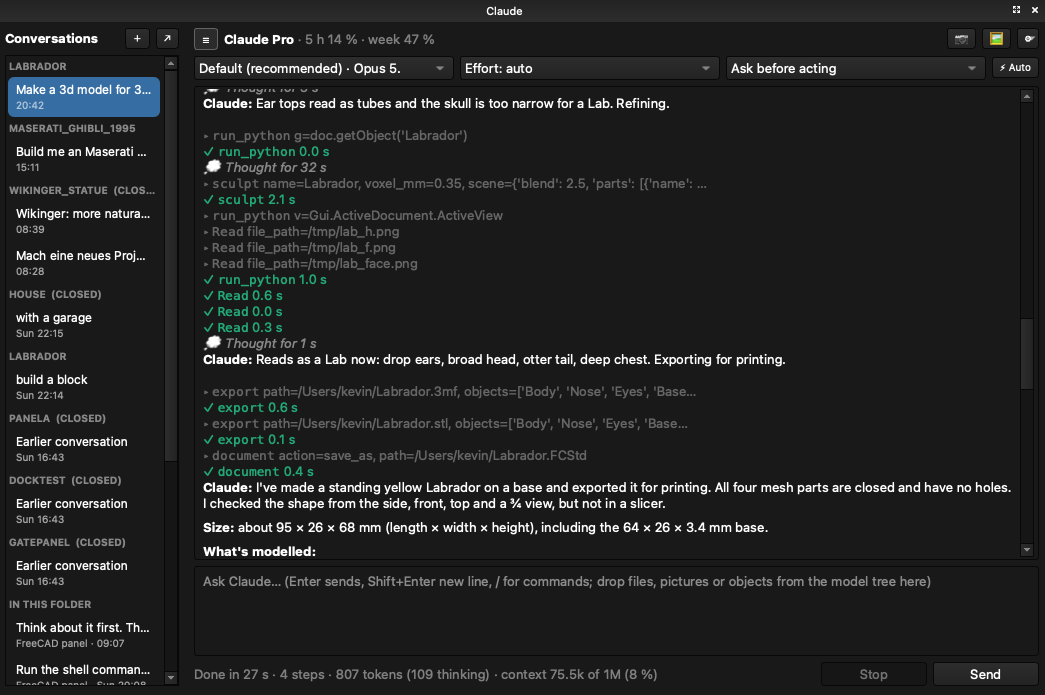
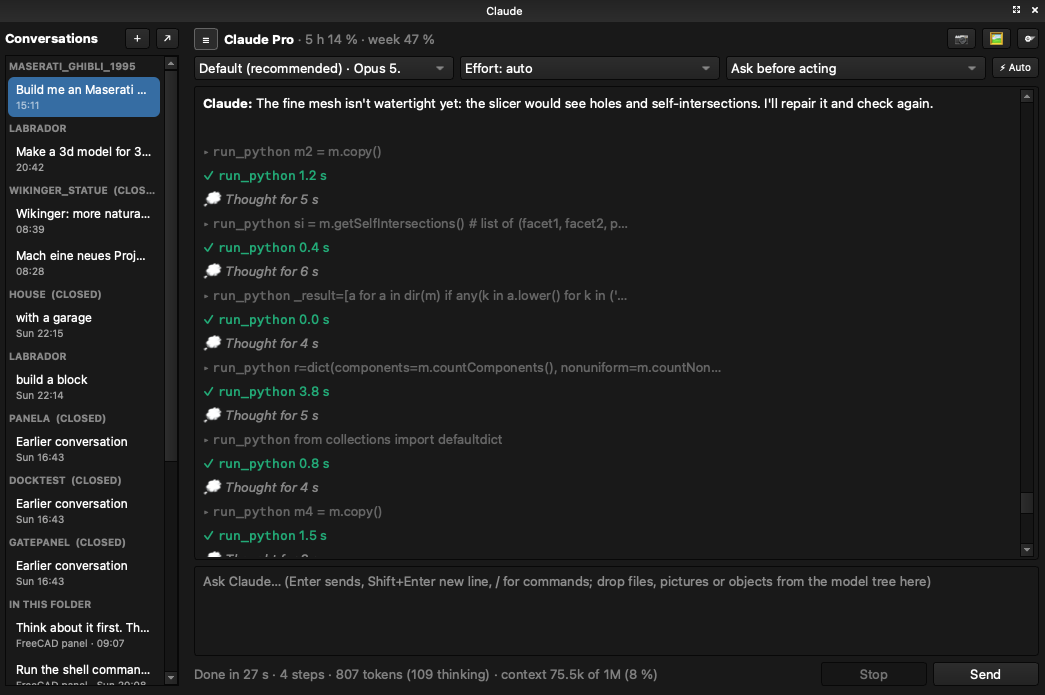
README: drop the Labrador screenshot; Maserati as the main image

Changed region(s): [[0.1837, 0.1209, 0.9799, 0.8158], [0.0, 0.1813, 0.1531, 0.2417], [0.0, 0.0906, 0.1531, 0.1511]]

diff --git a/README.md b/README.md
@@ -2,9 +2,9 @@
 
 Control FreeCAD by chat with Claude, either in a **"Claude" chat panel inside FreeCAD** or from **Claude Code**. Claude works on your open document through FreeCAD's Python API: it creates and changes geometry, reads the model tree and properties, and exports files. Every Claude step is exactly one undo step, and failed code leaves nothing behind.
 
-![FreeCAD with the Claude panel: a Labrador sculpted by Claude for 3D printing, with the conversation that built it](docs/images/freecad-labrador.png)
+![FreeCAD with the Claude panel: a Maserati Ghibli (1995) built from a photo for 3D printing](docs/images/freecad-maserati.png)
 
-*"Make a 3D model of a Labrador for printing": Claude sculpted it with the `sculpt` tool, looked at it from four sides, refined ears and skull, and exported 3MF and STL. Real screenshot of FreeCAD 1.1 on macOS.*
+*A Maserati Ghibli (1995) built from the user's photo for printing; here Claude checks the print mesh and repairs it until it is watertight. Real screenshot of FreeCAD 1.1 on macOS.*
 
 > Status: 1.12.0, not yet tagged. Tested by hand on macOS; Linux (AppImage) and Windows (portable build) are tested in CI against FreeCAD 1.1.4, including the GUI on Linux. The release is tagged after the [manual acceptance](docs/manual-testing.md) on Windows 11 and Ubuntu. See [CHANGELOG.md](CHANGELOG.md).
 
@@ -60,9 +60,7 @@ Check everything with `/freecad:status`.
 
 ![The Claude panel: conversations per project, model and effort, plan usage, tool rows and the turn summary with real token counts](docs/images/panel.png)
 
-![A Maserati Ghibli (1995) built from a photo for printing; Claude repairs the mesh until it is watertight](docs/images/freecad-maserati.png)
-
-*Top: the chat panel with conversations grouped by project, model, effort and permission mode, plan usage, every tool call and the turn summary. Below: a Maserati Ghibli (1995) built from the user's photo; here Claude checks the print mesh and repairs it until it is watertight.*
+*The chat panel: conversations grouped by project, model, effort and permission mode, plan usage, every tool call with its time, and the turn summary.*
 
 - **In FreeCAD:** type into the Claude panel, e.g. "Make a 40×30×10 mm block with a 10 mm hole in the middle and export it as STEP to ~/Desktop/block.step". The active document and your current selection are sent along, so "make this face 2 mm thicker" works. Tool calls show up as rows, followed by a summary of created/changed objects and any errors; **Stop** ends the turn. Each document keeps its own conversations in a sidebar on the left (☰ hides it): click to switch, ＋ starts one, right-click to rename, delete or open it in the Desktop app. They are normal Claude Code sessions: ↗ opens the current one in the Claude Desktop app, and sessions you started in a terminal or the Desktop app in the same folder appear in the list to continue here. 📷 inserts a picture of the 3D view. If Claude needs a tool the panel doesn't allow, a link lets you allow it for that conversation. Toggle the panel with Ctrl+Alt+K or the *Claude* menu of the "Claude Bridge" workbench.
 - **In Claude Code:** just ask; the `freecad` tools talk to the running FreeCAD.
